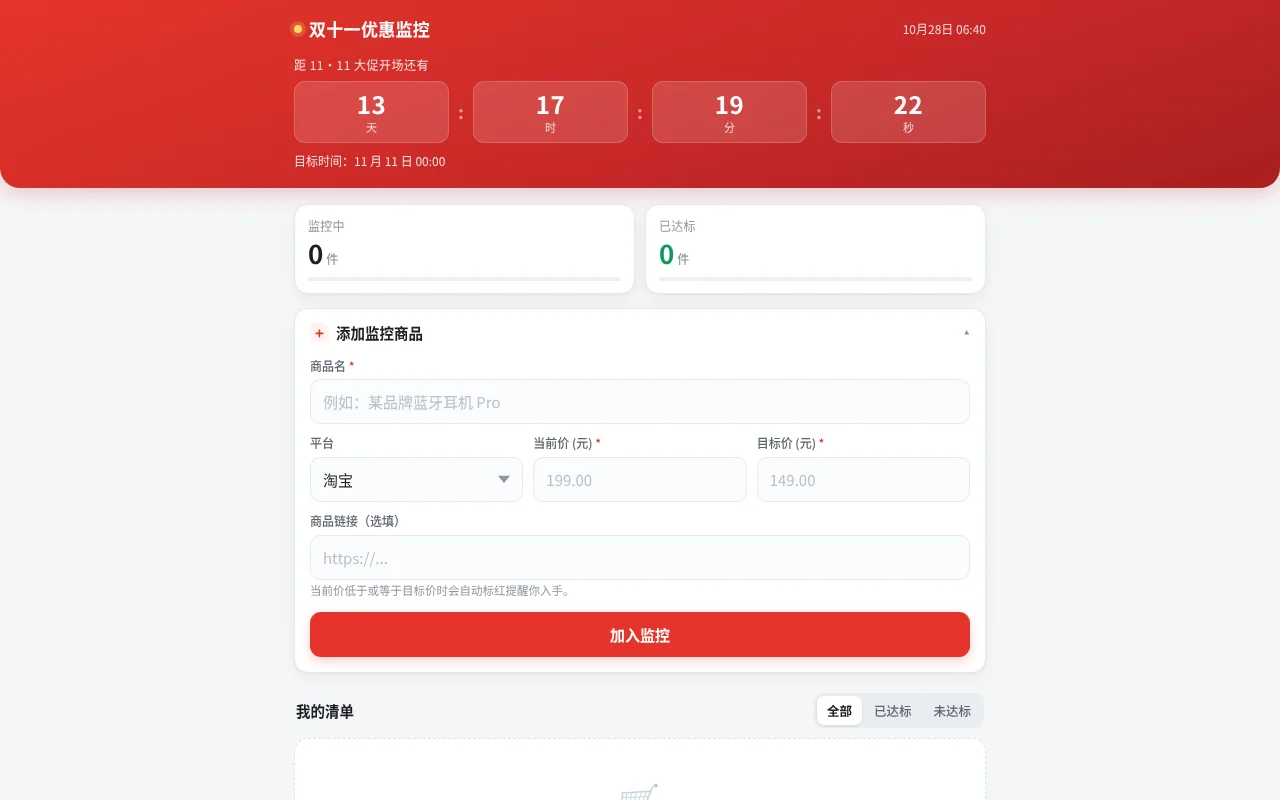
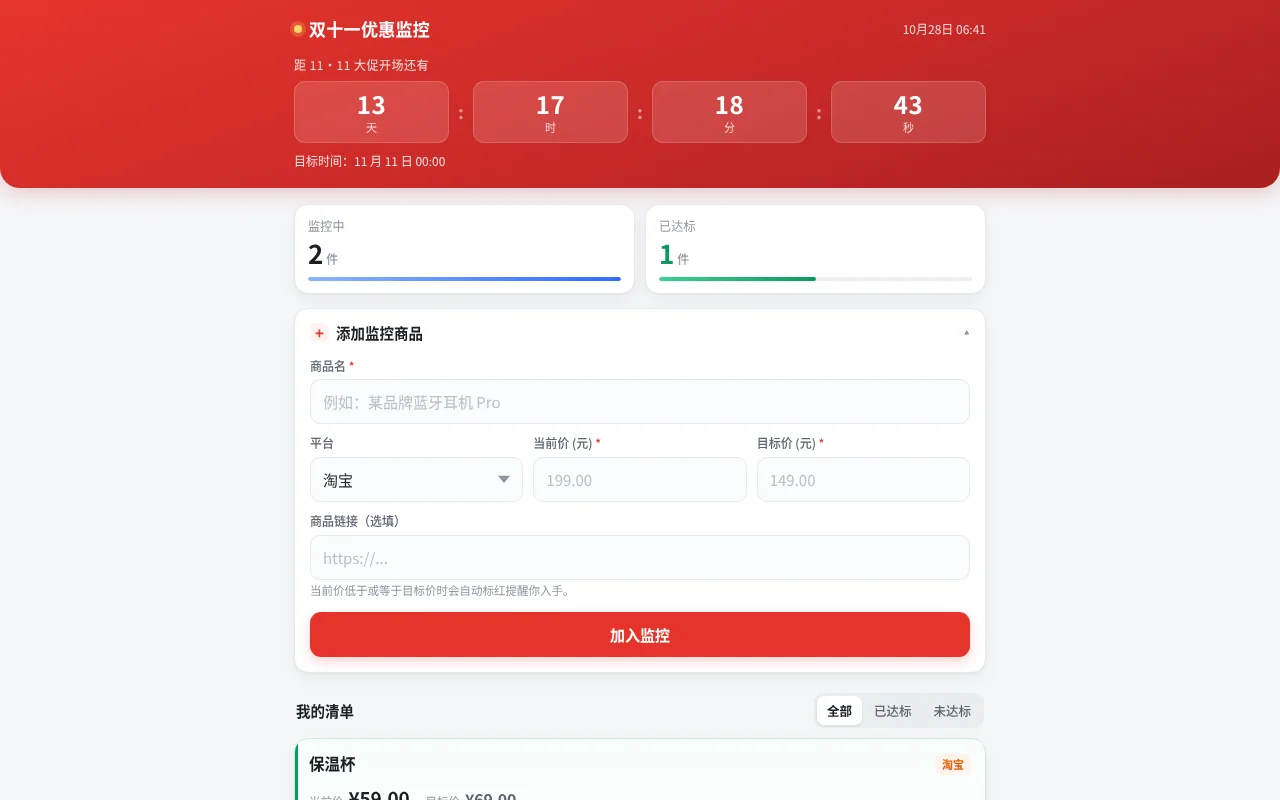
Add 双十一优惠监控 template

diff --git a/wb1024-c011-42d630e8/showcase/preview.html b/wb1024-c011-42d630e8/showcase/preview.html
@@ -365,7 +365,7 @@
   </footer>
 </div>
 
-<div class="toast" id="toast"></div>
+<div style="text-align:center;padding:12px;color:#777">示例体验，数据仅保留在本页 <button id="resetDemo" type="button">恢复示例</button></div><div class="toast" id="toast"></div>
 
 <script>
 (function(){
@@ -787,7 +787,9 @@
   });
 
   /* ---------- 启动 ---------- */
-  load();
+  function resetDemo(){ state.items=[{id:'demo1',name:'无线耳机',platform:'京东',current:299,target:249,link:'',created:Date.now()},{id:'demo2',name:'保温杯',platform:'淘宝',current:59,target:69,link:'',created:Date.now()-1}];state.filter='all';state.editingId=null;state.confirmId=null;save();syncFilterButtons();render(); }
+  document.getElementById('resetDemo').addEventListener('click',resetDemo);
+  resetDemo();
   syncFilterButtons();
   render();
   tick();
